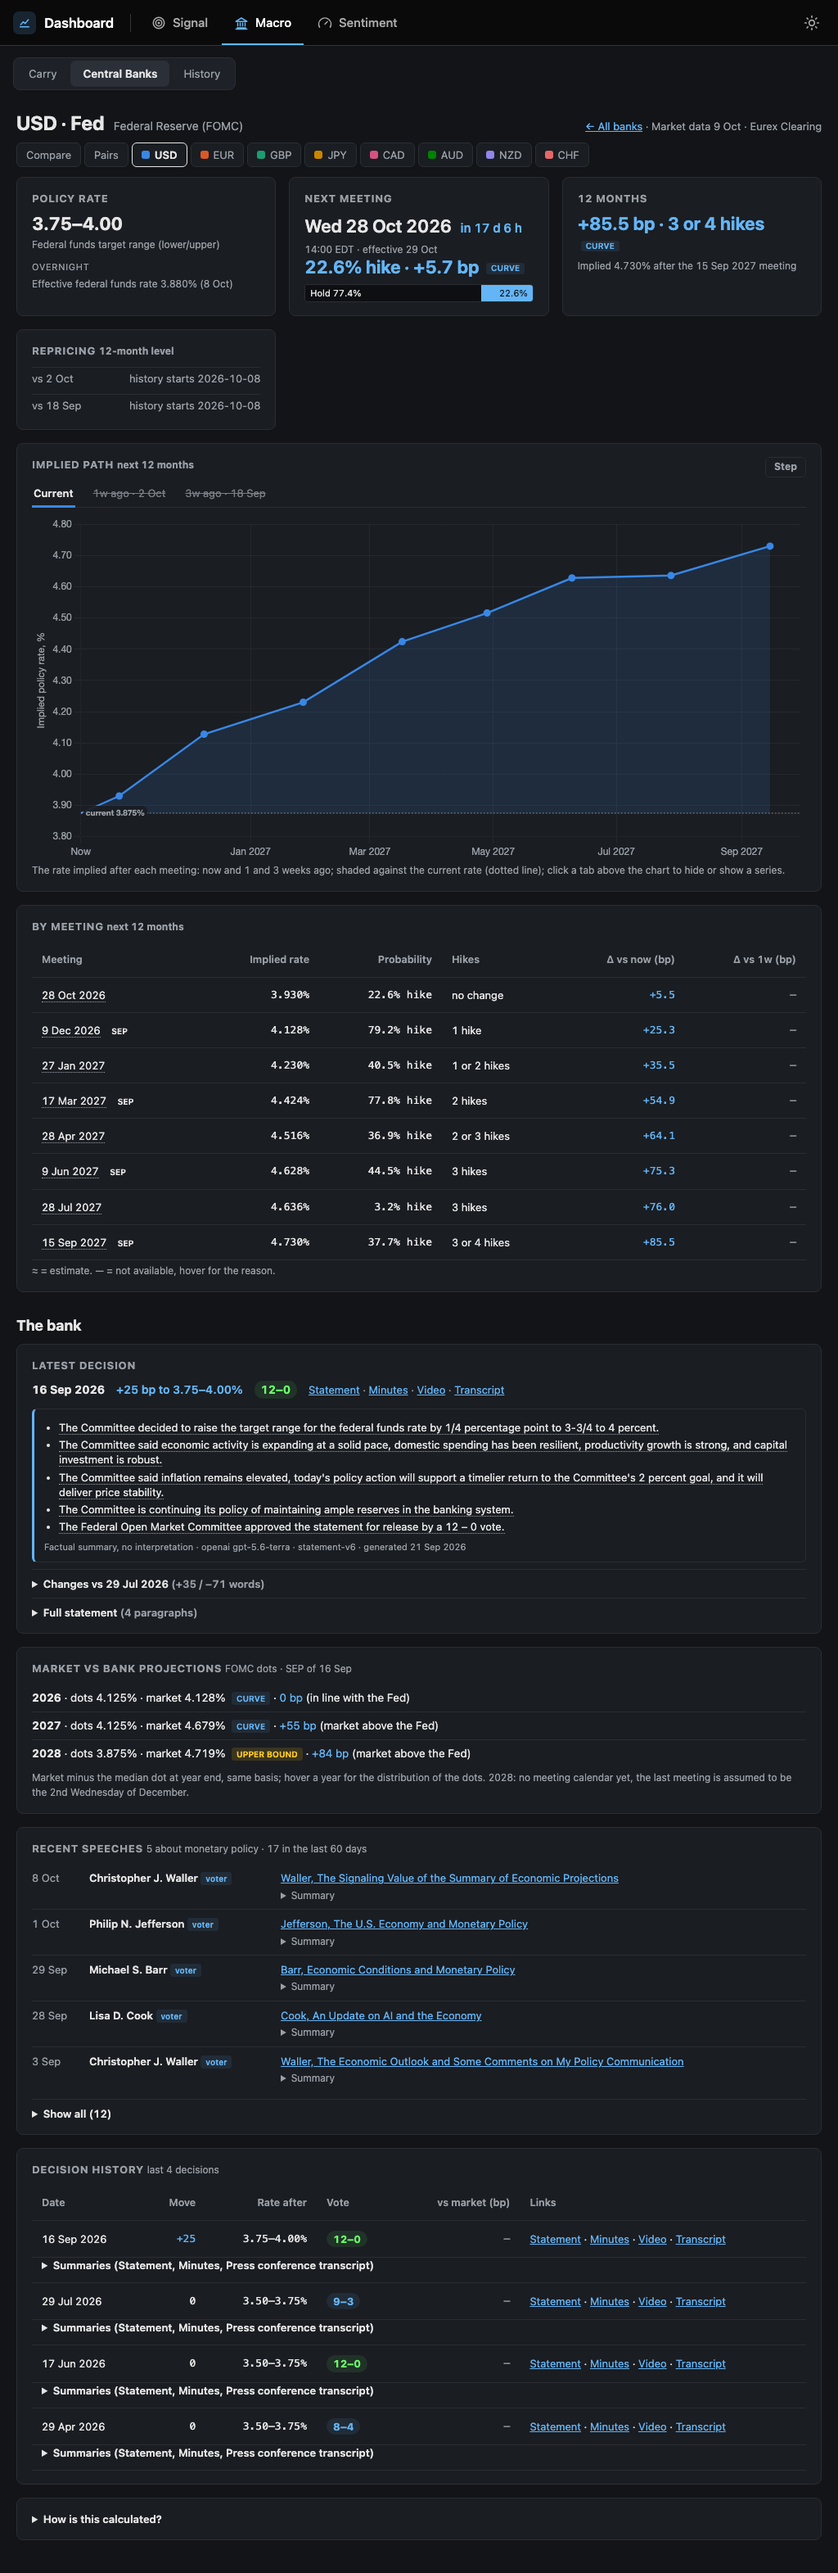
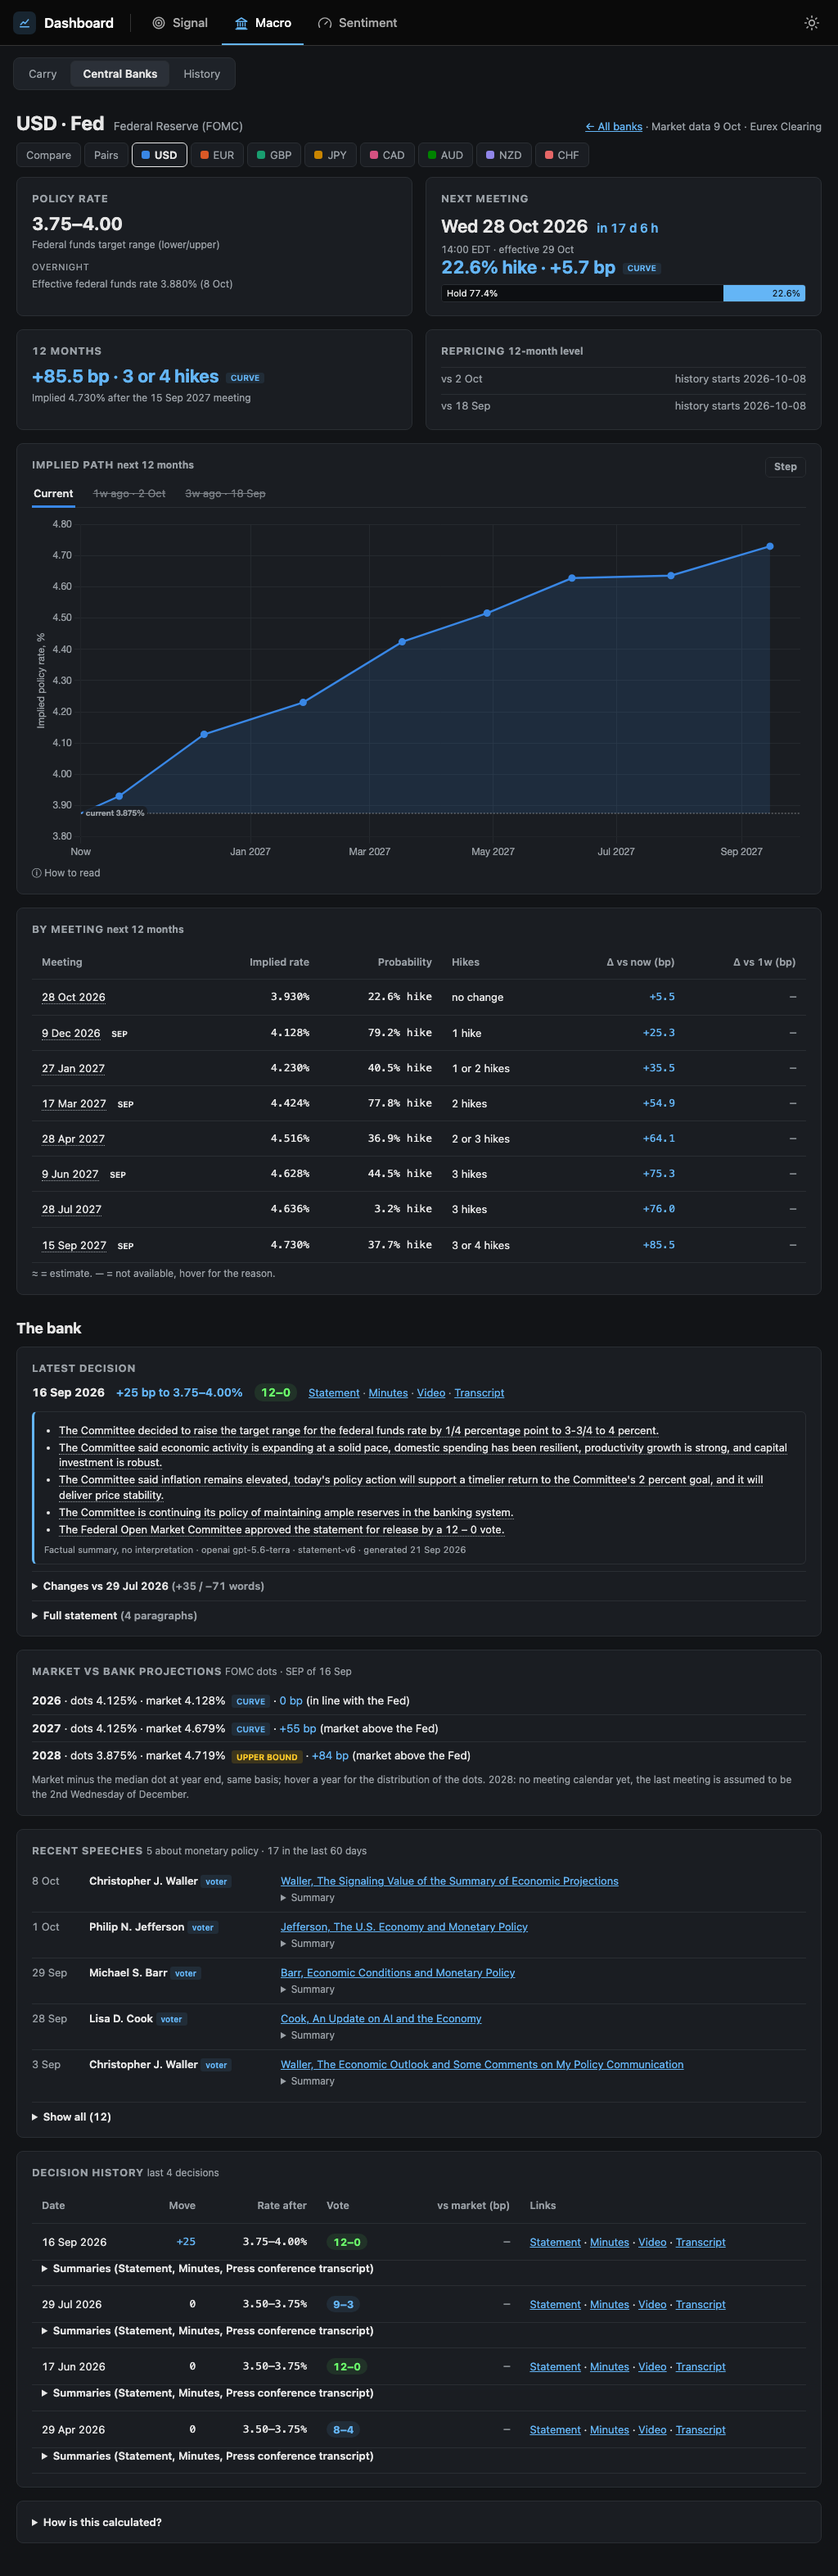
cb: bank page polish - no gap under By meeting, NZD note as an info tip, 2 + 2 cards
- the chart help moves into a closed "How to read"; >= 1100 px the By meeting table stretches its rows to fill the column
  (both columns end on the same line; the chart keeps its 420 px minimum)
- NZD 12 months: the long spread note becomes an ⓘ next to the ESTIMATE badge (text in its tooltip); it is also listed in
  "How is this calculated?" (Notes)
- 600-1100 px: the four cards sit 2 + 2
- screenshots usd-dark-1440, nzd-dark-1440, usd-dark-1024 retaken

diff --git a/public/cb.js b/public/cb.js
@@ -815,6 +815,7 @@
     return '<div class="cb-prob2" role="img" aria-label="' + esc(lo + " " + pct(1 - p) + ", " + hi + " " + pct(p)) + '"><span class="cb-prob2-a" style="width:' + ((1 - p) * 100).toFixed(1) + '%">' + esc(lo) + " " + pct(1 - p) +
       '</span><span class="cb-prob2-b ' + (cut ? "cb-bar-dove" : "cb-bar-hawk") + '" style="width:' + (p * 100).toFixed(1) + '%">' + (p >= 0.3 ? esc(hi) + " " + pct(p) : p >= 0.12 ? pct(p) : "") + "</span></div>";
   }
+  function infoTip(text) { return text ? ' <span class="cb-info" tabindex="0" role="note" title="' + esc(text) + '" aria-label="' + esc(text) + '">ⓘ</span>' : ""; }
   function pathCards(d) {
     const pj = d.path, n = pj.next, pt = firstPoint(pj), mv = moveText(pt), m12 = m12Text(pj.m12);
     const next = '<section class="cb-card cb-pcard"><h3>Next meeting</h3>' + (n ? '<div class="cb-bigdate">' + esc(weekday(n.decision)) + " " + fmtDate(n.decision) + ' <span class="cb-cdbig">' + cdSpan(n) + "</span></div>" +
@@ -822,9 +823,9 @@
       (mv ? '<div class="cb-bigrate ' + (pt.step_bp > 0 ? "cb-hawk" : pt.step_bp < 0 ? "cb-dove" : "") + '">' + esc(mv) + flagBadge(pt.flag) + "</div>" + probBar2(pt)
           : jointText(pt) ? '<div class="cb-sub">' + jointSpan(pt) + "</div>"
           : '<div class="cb-sub">' + NA + " " + esc(shortNa((pt && (pt.na || pt.step_na)) || "n/a")) + "</div>") : '<div class="cb-sub">' + NA + " no upcoming meeting</div>") + "</section>";
-    const year = '<section class="cb-card cb-pcard"><h3>12 months</h3>' + (m12 ? '<div class="cb-bigrate ' + (pj.m12.cum_bp > 0 ? "cb-hawk" : pj.m12.cum_bp < 0 ? "cb-dove" : "") + '">' + esc(m12) + flagBadge(pj.m12.flag) + "</div>" +
+    const year = '<section class="cb-card cb-pcard"><h3>12 months</h3>' + (m12 ? '<div class="cb-bigrate ' + (pj.m12.cum_bp > 0 ? "cb-hawk" : pj.m12.cum_bp < 0 ? "cb-dove" : "") + '">' + esc(m12) + flagBadge(pj.m12.flag) + infoTip(pj.spread_note) + "</div>" +
       '<div class="cb-sub">Implied ' + fmtRate(pj.m12.rate, 3) + "% after the " + fmtDate(pj.m12.meeting) + " meeting</div>" : '<div class="cb-sub">' + NA + " " + esc(shortNa(pj.m12.na)) + "</div>") +
-      (pj.spread_note ? '<div class="cb-sub muted">' + esc(pj.spread_note) + "</div>" : "") + "</section>";
+      "</section>";
     const one = function (k, label) {
       const m = pj.delta[k];
       return '<div class="cb-kv"><span>' + label + "</span>" + (m && isNum(m.v) ? valueSpan(m, 1, " bp") : '<span class="cb-na">' + esc(shortNa((m && m.na) || "n/a")) + "</span>") + "</div>";
@@ -934,7 +935,7 @@
     const pj = d.path;
     return '<section class="cb-card cb-chartcard"><h3>Implied path <small class="muted">next 12 months</small>' +
       '<span class="cb-toggle" role="group" aria-label="Line shape"><button type="button" class="cb-tbtn" data-shape="step" aria-pressed="false" title="Draw the path as steps (the rate changes at each meeting)">Step</button></span></h3>' +
-      '<div id="cbSeriesTabs">' + seriesTabsHtml(pj, {}) + '</div><div class="cb-chart-wrap cb-chart-side"><canvas id="cbPathChart"></canvas></div><div class="cb-sub">' + esc(pathHelp(pj)) + "</div></section>";
+      '<div id="cbSeriesTabs">' + seriesTabsHtml(pj, {}) + '</div><div class="cb-chart-wrap cb-chart-side"><canvas id="cbPathChart"></canvas></div>' + howToRead(esc(pathHelp(pj))) + "</section>";
   }
   function pathHelp(pj) {
     const bits = ["The rate implied after each meeting: now and 1 and 3 weeks ago", "shaded against the current rate (dotted line)", "click a tab above the chart to hide or show a series"];
@@ -1252,7 +1253,8 @@
     }).join("") + "</ul>" : "";
     const ck = d.consistency.length ? "<h4>Consistency of months without a meeting</h4><ul>" + d.consistency.map(function (c) { return "<li>" + esc(c.source + " " + c.period) + DOT + fmtSigned(c.dev_bp, 1) + " bp (" + esc(c.detail) + ")</li>"; }).join("") + "</ul>" : "";
     const sp = d.spread ? "<p>Overnight-to-policy spread used: <b>" + fmtSigned(d.spread.bp, 2) + " bp</b>, median of " + d.spread.n + " business days (" + fmtDate(d.spread.start) + EN + fmtDate(d.spread.end) + "; " + d.spread.excluded + " excluded) for " + esc(d.spread.benchmark) + " minus " + esc(d.spread.policy) + ".</p>" : "";
-    const notes = d.notes.length ? "<h4>Notes</h4><ul>" + d.notes.map(function (n) { return "<li>" + esc(n) + "</li>"; }).join("") + "</ul>" : "";
+    const allNotes = d.notes.concat(d.path && d.path.spread_note && d.notes.indexOf(d.path.spread_note) < 0 ? [d.path.spread_note] : []);
+    const notes = allNotes.length ? "<h4>Notes</h4><ul>" + allNotes.map(function (n) { return "<li>" + esc(n) + "</li>"; }).join("") + "</ul>" : "";
     return '<details class="cb-card cb-method" id="cbMethod"><summary>How is this calculated?</summary><dl>' + items + "</dl>" + sp + notes + cc + ck + latencyBlock(d.latency) + "</details>";
   }
   // ---- official texts (phase 2a) -------------------------------------------------------------------------------------------

diff --git a/static/cb.js b/static/cb.js
@@ -815,6 +815,7 @@
     return '<div class="cb-prob2" role="img" aria-label="' + esc(lo + " " + pct(1 - p) + ", " + hi + " " + pct(p)) + '"><span class="cb-prob2-a" style="width:' + ((1 - p) * 100).toFixed(1) + '%">' + esc(lo) + " " + pct(1 - p) +
       '</span><span class="cb-prob2-b ' + (cut ? "cb-bar-dove" : "cb-bar-hawk") + '" style="width:' + (p * 100).toFixed(1) + '%">' + (p >= 0.3 ? esc(hi) + " " + pct(p) : p >= 0.12 ? pct(p) : "") + "</span></div>";
   }
+  function infoTip(text) { return text ? ' <span class="cb-info" tabindex="0" role="note" title="' + esc(text) + '" aria-label="' + esc(text) + '">ⓘ</span>' : ""; }
   function pathCards(d) {
     const pj = d.path, n = pj.next, pt = firstPoint(pj), mv = moveText(pt), m12 = m12Text(pj.m12);
     const next = '<section class="cb-card cb-pcard"><h3>Next meeting</h3>' + (n ? '<div class="cb-bigdate">' + esc(weekday(n.decision)) + " " + fmtDate(n.decision) + ' <span class="cb-cdbig">' + cdSpan(n) + "</span></div>" +
@@ -822,9 +823,9 @@
       (mv ? '<div class="cb-bigrate ' + (pt.step_bp > 0 ? "cb-hawk" : pt.step_bp < 0 ? "cb-dove" : "") + '">' + esc(mv) + flagBadge(pt.flag) + "</div>" + probBar2(pt)
           : jointText(pt) ? '<div class="cb-sub">' + jointSpan(pt) + "</div>"
           : '<div class="cb-sub">' + NA + " " + esc(shortNa((pt && (pt.na || pt.step_na)) || "n/a")) + "</div>") : '<div class="cb-sub">' + NA + " no upcoming meeting</div>") + "</section>";
-    const year = '<section class="cb-card cb-pcard"><h3>12 months</h3>' + (m12 ? '<div class="cb-bigrate ' + (pj.m12.cum_bp > 0 ? "cb-hawk" : pj.m12.cum_bp < 0 ? "cb-dove" : "") + '">' + esc(m12) + flagBadge(pj.m12.flag) + "</div>" +
+    const year = '<section class="cb-card cb-pcard"><h3>12 months</h3>' + (m12 ? '<div class="cb-bigrate ' + (pj.m12.cum_bp > 0 ? "cb-hawk" : pj.m12.cum_bp < 0 ? "cb-dove" : "") + '">' + esc(m12) + flagBadge(pj.m12.flag) + infoTip(pj.spread_note) + "</div>" +
       '<div class="cb-sub">Implied ' + fmtRate(pj.m12.rate, 3) + "% after the " + fmtDate(pj.m12.meeting) + " meeting</div>" : '<div class="cb-sub">' + NA + " " + esc(shortNa(pj.m12.na)) + "</div>") +
-      (pj.spread_note ? '<div class="cb-sub muted">' + esc(pj.spread_note) + "</div>" : "") + "</section>";
+      "</section>";
     const one = function (k, label) {
       const m = pj.delta[k];
       return '<div class="cb-kv"><span>' + label + "</span>" + (m && isNum(m.v) ? valueSpan(m, 1, " bp") : '<span class="cb-na">' + esc(shortNa((m && m.na) || "n/a")) + "</span>") + "</div>";
@@ -934,7 +935,7 @@
     const pj = d.path;
     return '<section class="cb-card cb-chartcard"><h3>Implied path <small class="muted">next 12 months</small>' +
       '<span class="cb-toggle" role="group" aria-label="Line shape"><button type="button" class="cb-tbtn" data-shape="step" aria-pressed="false" title="Draw the path as steps (the rate changes at each meeting)">Step</button></span></h3>' +
-      '<div id="cbSeriesTabs">' + seriesTabsHtml(pj, {}) + '</div><div class="cb-chart-wrap cb-chart-side"><canvas id="cbPathChart"></canvas></div><div class="cb-sub">' + esc(pathHelp(pj)) + "</div></section>";
+      '<div id="cbSeriesTabs">' + seriesTabsHtml(pj, {}) + '</div><div class="cb-chart-wrap cb-chart-side"><canvas id="cbPathChart"></canvas></div>' + howToRead(esc(pathHelp(pj))) + "</section>";
   }
   function pathHelp(pj) {
     const bits = ["The rate implied after each meeting: now and 1 and 3 weeks ago", "shaded against the current rate (dotted line)", "click a tab above the chart to hide or show a series"];
@@ -1252,7 +1253,8 @@
     }).join("") + "</ul>" : "";
     const ck = d.consistency.length ? "<h4>Consistency of months without a meeting</h4><ul>" + d.consistency.map(function (c) { return "<li>" + esc(c.source + " " + c.period) + DOT + fmtSigned(c.dev_bp, 1) + " bp (" + esc(c.detail) + ")</li>"; }).join("") + "</ul>" : "";
     const sp = d.spread ? "<p>Overnight-to-policy spread used: <b>" + fmtSigned(d.spread.bp, 2) + " bp</b>, median of " + d.spread.n + " business days (" + fmtDate(d.spread.start) + EN + fmtDate(d.spread.end) + "; " + d.spread.excluded + " excluded) for " + esc(d.spread.benchmark) + " minus " + esc(d.spread.policy) + ".</p>" : "";
-    const notes = d.notes.length ? "<h4>Notes</h4><ul>" + d.notes.map(function (n) { return "<li>" + esc(n) + "</li>"; }).join("") + "</ul>" : "";
+    const allNotes = d.notes.concat(d.path && d.path.spread_note && d.notes.indexOf(d.path.spread_note) < 0 ? [d.path.spread_note] : []);
+    const notes = allNotes.length ? "<h4>Notes</h4><ul>" + allNotes.map(function (n) { return "<li>" + esc(n) + "</li>"; }).join("") + "</ul>" : "";
     return '<details class="cb-card cb-method" id="cbMethod"><summary>How is this calculated?</summary><dl>' + items + "</dl>" + sp + notes + cc + ck + latencyBlock(d.latency) + "</details>";
   }
   // ---- official texts (phase 2a) -------------------------------------------------------------------------------------------

diff --git a/public/style.css b/public/style.css
@@ -2840,3 +2840,15 @@ table.cb-pathtable tr[data-meeting] { cursor: default; }
 @media (max-width: 600px) {
   .cb-chart-wrap.cb-chart-side { height: 380px; }
 }
+
+/* ---- bank page polish: the table fills its column, the ⓘ note, 2 + 2 cards between 600 and 1100 px ---- */
+.cb-info { display: inline-block; margin-left: 4px; font-size: 13px; font-weight: 400; color: var(--muted); cursor: help; vertical-align: middle; }
+.cb-info:hover, .cb-info:focus-visible { color: var(--fg); }
+@media (min-width: 601px) and (max-width: 1099px) {
+  .cb-pcards.cb-pcards4 { grid-template-columns: repeat(2, minmax(0, 1fr)); }
+}
+@media (min-width: 1100px) {
+  .cb-pathgrid > .cb-pathtablecard { display: flex; flex-direction: column; }
+  .cb-pathgrid > .cb-pathtablecard > .cb-scroll { flex: 1 1 auto; display: flex; }
+  .cb-pathgrid > .cb-pathtablecard table.cb-pathtable { height: 100%; }
+}

diff --git a/static/style.css b/static/style.css
@@ -2840,3 +2840,15 @@ table.cb-pathtable tr[data-meeting] { cursor: default; }
 @media (max-width: 600px) {
   .cb-chart-wrap.cb-chart-side { height: 380px; }
 }
+
+/* ---- bank page polish: the table fills its column, the ⓘ note, 2 + 2 cards between 600 and 1100 px ---- */
+.cb-info { display: inline-block; margin-left: 4px; font-size: 13px; font-weight: 400; color: var(--muted); cursor: help; vertical-align: middle; }
+.cb-info:hover, .cb-info:focus-visible { color: var(--fg); }
+@media (min-width: 601px) and (max-width: 1099px) {
+  .cb-pcards.cb-pcards4 { grid-template-columns: repeat(2, minmax(0, 1fr)); }
+}
+@media (min-width: 1100px) {
+  .cb-pathgrid > .cb-pathtablecard { display: flex; flex-direction: column; }
+  .cb-pathgrid > .cb-pathtablecard > .cb-scroll { flex: 1 1 auto; display: flex; }
+  .cb-pathgrid > .cb-pathtablecard table.cb-pathtable { height: 100%; }
+}
